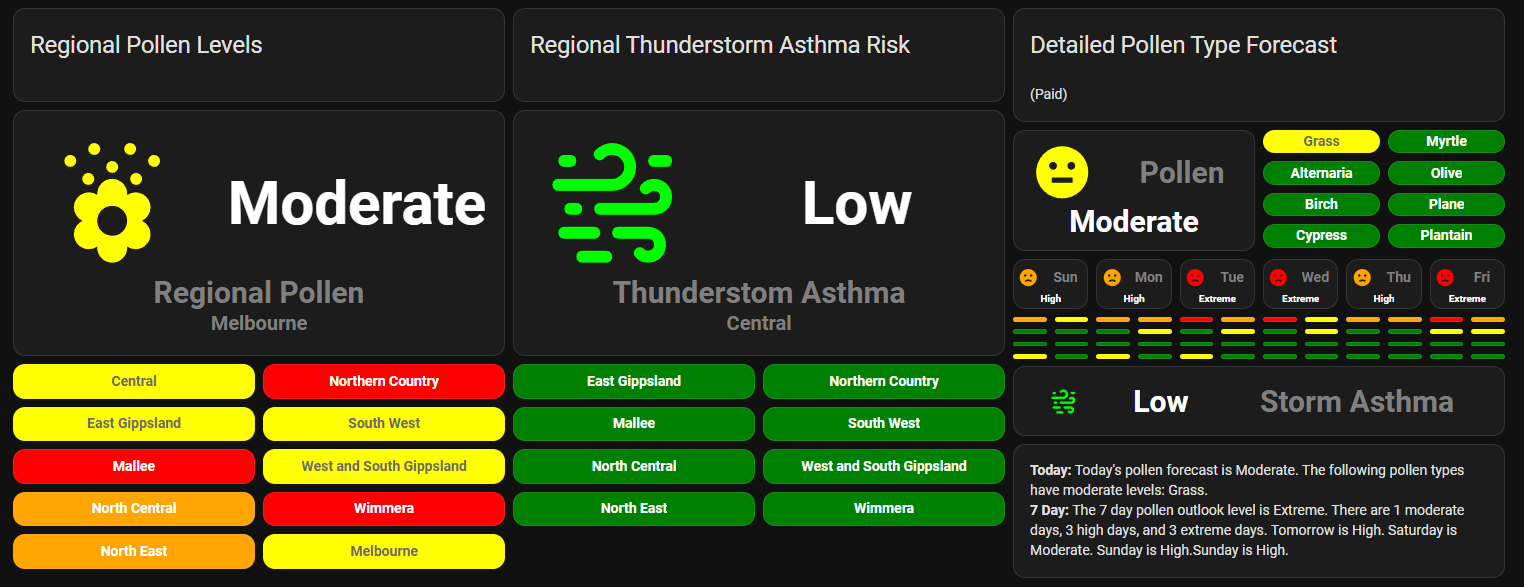
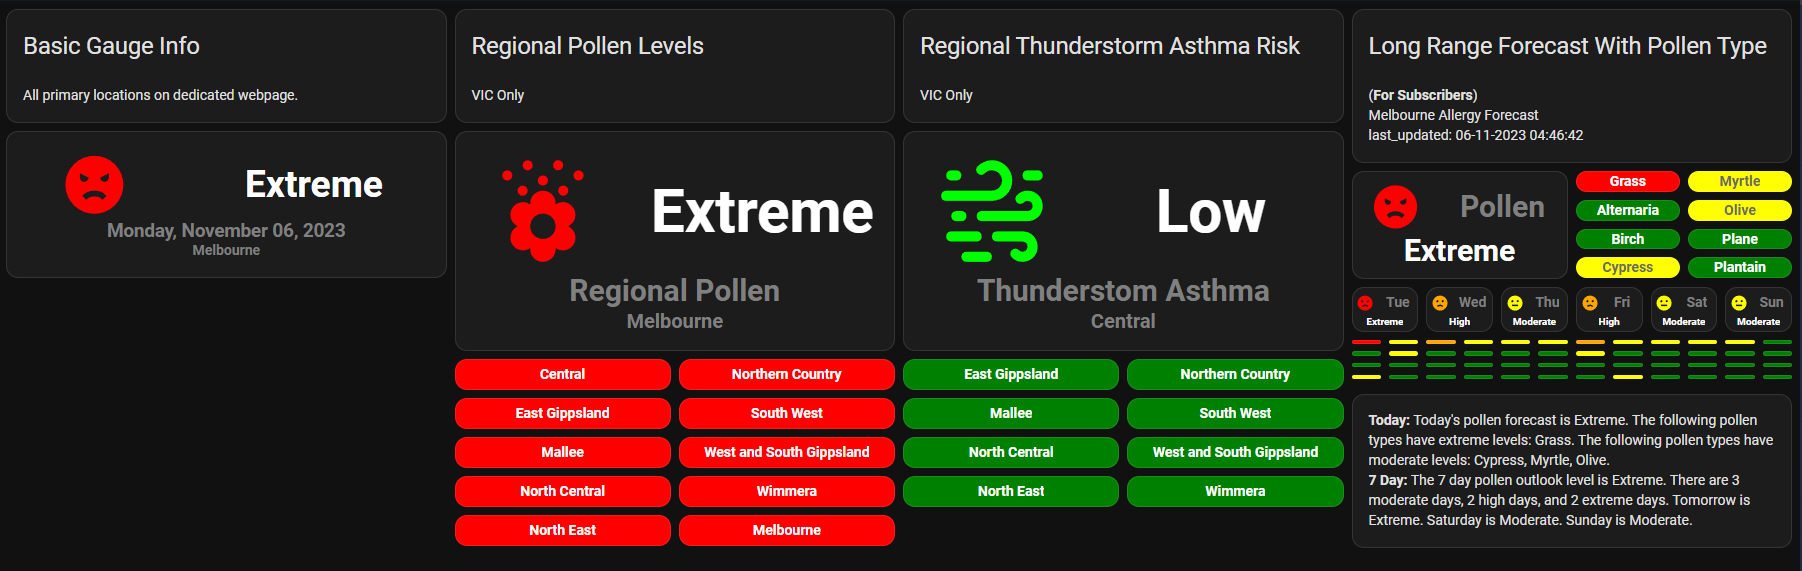
modified:   AllergyCard.png 	modified:   custom_components/oz_poll/sensor.py 	modified:   lovelace_card.yaml

diff --git a/custom_components/oz_poll/sensor.py b/custom_components/oz_poll/sensor.py
@@ -54,69 +54,108 @@ class OzPollSensor(SensorEntity):
     def update(self) -> None:
         self._attr_native_value = STATE_UNKNOWN
         try:
-            # Website scrape section
-            # Send an HTTP GET request to the website
+            # Website section
+            # HTTP GET request
             website_response = requests.get(self._url_website, timeout=10)
             website_soup = BeautifulSoup(website_response.text, "html.parser")
 
-            # Extract Forecast Date, Website Last Updated, and Pollen Forecast Today Melbourne Grass
-            website_value_date = website_soup.select_one("#pdate.pollen-date").get_text(
+            # Initialize empty lists to store the extracted values from the header gauge
+            pollen_data_today_website_gauge = []
+
+            # Extract data from the header "gauge".
+            website_gauge_date = website_soup.select_one("#pdate.pollen-date").get_text(
                 strip=True
             )
-            website_last_updated = website_soup.select_one(
-                "#district-pollen-div .ta-notice"
-            ).get_text(strip=True)
-            website_value_melbourne = website_soup.select_one("#plevel").get_text(
+            website_gauge_site = website_soup.select_one("#psite").get_text(strip=True)
+
+            website_gauge_value = website_soup.select_one("#plevel").get_text(
                 strip=True
             )
 
-            # Initialize empty lists to store the extracted values
-            pollen_data_regional_today = []
-            asthma_data_regional_today = []
-
-            # Define CSS selectors for both pollen and asthma data tables
-            selectors = {
-                "pollen": "div.forecast-card .uk-grid-match.uk-child-width-1-2.uk-text-center.ta-forecast-cell.uk-grid",
-                "asthma": "#tae-div div.uk-grid-match.uk-child-width-1-2",
+            # Create a dictionary to store the value pairs
+            gauge_data = {
+                "gauge_date": website_gauge_date,
+                "gauge_site": website_gauge_site,
+                "gauge_value": website_gauge_value,
             }
-            # Iterate through the selected elements for pollen and asthma data
-            for data_type, selector in selectors.items():
-                elements = website_soup.select(selector)
 
-                for div_element in elements:
-                    # Find and extract the text from the 'forecast-day' and 'forecast-value' elements
-                    day_element = div_element.find("div", class_="forecast-day")
-                    value_element = div_element.find("div", class_="forecast-value")
-
-                    data_list = (
-                        pollen_data_regional_today
-                        if data_type == "pollen"
-                        else asthma_data_regional_today
-                    )
-
-                    data_list.append(
-                        {
-                            "region": day_element.text.strip(),
-                            "value": value_element.text.strip(),
-                        }
-                    )
-
-            # Append Melbourne's pollen data to the list (since that's not in the tables)
-            pollen_data_regional_today.append(
-                {
-                    "region": "Melbourne",  # Set the region to Melbourne
-                    "value": website_value_melbourne,  # Use website_value_melbourne as the value
-                }
-            )
+            # Append the dictionary to the list
+            pollen_data_today_website_gauge.append(gauge_data)
 
             data_web = {
                 "allergy_forecast_web": {
-                    "last_updated_description": website_last_updated,
-                    "date": website_value_date,
-                    "asthma_data_regional_today": asthma_data_regional_today,
-                    "pollen_data_regional_today": pollen_data_regional_today,
+                    "site_gauge_data": gauge_data,
                 }
             }
+
+            if website_gauge_site == "Melbourne":
+                # Extract Melbourne specific data
+                # Initialize empty dictionaries to store the extracted values
+                # Get last updated values.
+                website_last_updated_pollen = website_soup.select_one(
+                    "#district-pollen-div .ta-notice"
+                ).get_text(strip=True)
+                website_notices = website_soup.select("#tae-div .ta-notice")
+                if len(website_notices) >= 2:
+                    website_last_updated_asthma = website_notices[1].get_text(
+                        strip=True
+                    )
+                else:
+                    website_last_updated_asthma = "Updated time not found."
+
+                pollen_data_regional_today = {
+                    "last_updated_message": website_last_updated_pollen,
+                    "regional_data": [],
+                }
+                asthma_data_regional_today = {
+                    "last_updated_message": website_last_updated_asthma,
+                    "regional_data": [],
+                }
+
+                # Define CSS selectors for both pollen and asthma data tables
+                selectors = {
+                    "pollen": "div.forecast-card .uk-grid-match.uk-child-width-1-2.uk-text-center.ta-forecast-cell.uk-grid",
+                    "asthma": "#tae-div div.uk-grid-match.uk-child-width-1-2",
+                }
+
+                # Iterate through the selected elements for pollen and asthma data
+                for data_type, selector in selectors.items():
+                    elements = website_soup.select(selector)
+                    for div_element in elements:
+                        # Find and extract the text from the 'forecast-day' and 'forecast-value' elements
+                        day_element = div_element.find("div", class_="forecast-day")
+                        value_element = div_element.find("div", class_="forecast-value")
+
+                        data_dict = {
+                            "region": day_element.text.strip(),
+                            "value": value_element.text.strip(),
+                        }
+
+                        if data_type == "pollen":
+                            pollen_data_regional_today["regional_data"].append(
+                                data_dict
+                            )
+                        else:
+                            asthma_data_regional_today["regional_data"].append(
+                                data_dict
+                            )
+
+                # Append Gauge pollen data to the list (since that's not in the tables)
+                pollen_data_regional_today["regional_data"].append(
+                    {
+                        "region": website_gauge_site,  # Set the region to Melbourne
+                        "value": website_gauge_value,  # Use website_gauge_value as the value
+                    }
+                )
+
+                # Update the data_web dictionary with Melbourne data
+                data_web["allergy_forecast_web"][
+                    "asthma_data_regional_today"
+                ] = asthma_data_regional_today
+                data_web["allergy_forecast_web"][
+                    "pollen_data_regional_today"
+                ] = pollen_data_regional_today
+
             self._attr_extra_state_attributes = {**data_web}
 
             # Rest of the code for retrieving and processing main API data
@@ -130,8 +169,6 @@ class OzPollSensor(SensorEntity):
                         forecast_result_node = response.json()["forecast_result"]
                         disclaimer_node = response.json()["disclaimer"]
                         grass_gauge_result_node = response.json()["grass_gauge"]
-                        # print(grass_gauge_result_node)
-                        # print(disclaimer_node)
                         forecast_result_bs = BeautifulSoup(
                             forecast_result_node, "html.parser"
                         )
@@ -143,7 +180,6 @@ class OzPollSensor(SensorEntity):
                             "div", text=lambda text: text and "Allergy Forecast" in text
                         )
                         if forecast_location_description_div:
-                            # Do something with the selected div, for example, print its text
                             forecast_location_description = (
                                 forecast_location_description_div.text.strip()
                             )
@@ -333,7 +369,6 @@ class OzPollSensor(SensorEntity):
                         )  # Updated time
 
                         # Create the summary description for today's pollen forecast
-                        # data_list = data_list  # Assuming you already have data_list
                         today_data = data_list[0]
 
                         summary_level = today_data["summary_stats"]["summary_level"]
@@ -391,8 +426,8 @@ class OzPollSensor(SensorEntity):
                 # Sensor value is today's summary level when _i_subscribe_and_support is True.
                 self._attr_native_value = first_forecast_summary_level
             else:
-                # Sensor value is website_value_melbourne when _i_subscribe_and_support is False.
-                self._attr_native_value = website_value_melbourne
+                # Sensor value is website_gauge_value when _i_subscribe_and_support is False.
+                self._attr_native_value = website_gauge_value
 
         except requests.RequestException:
             self._attr_native_value = STATE_UNKNOWN
